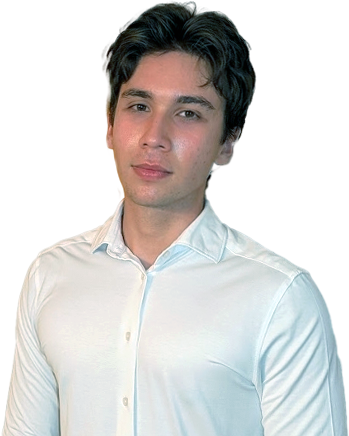
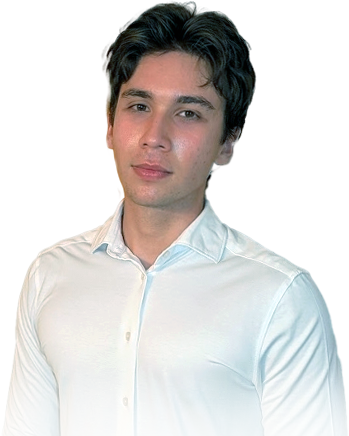
v

Changed region(s): [[0.4585, 0.8349, 1.0, 1.0], [0.0, 0.8349, 0.2292, 1.0], [0.3438, 0.8945, 0.4011, 1.0]]

diff --git a/src/components/Home/sectionOne.jsx b/src/components/Home/sectionOne.jsx
@@ -81,7 +81,8 @@ function SectionOne() {
                 <img width={430} src="/images/hexagon.png" alt="" />
               </motion.div>
               <img
-                width={430}
+			    className={{padding:0}}
+                width={300}
                 className="marius"
                 src="/images/marius.png"
                 alt="marius"
